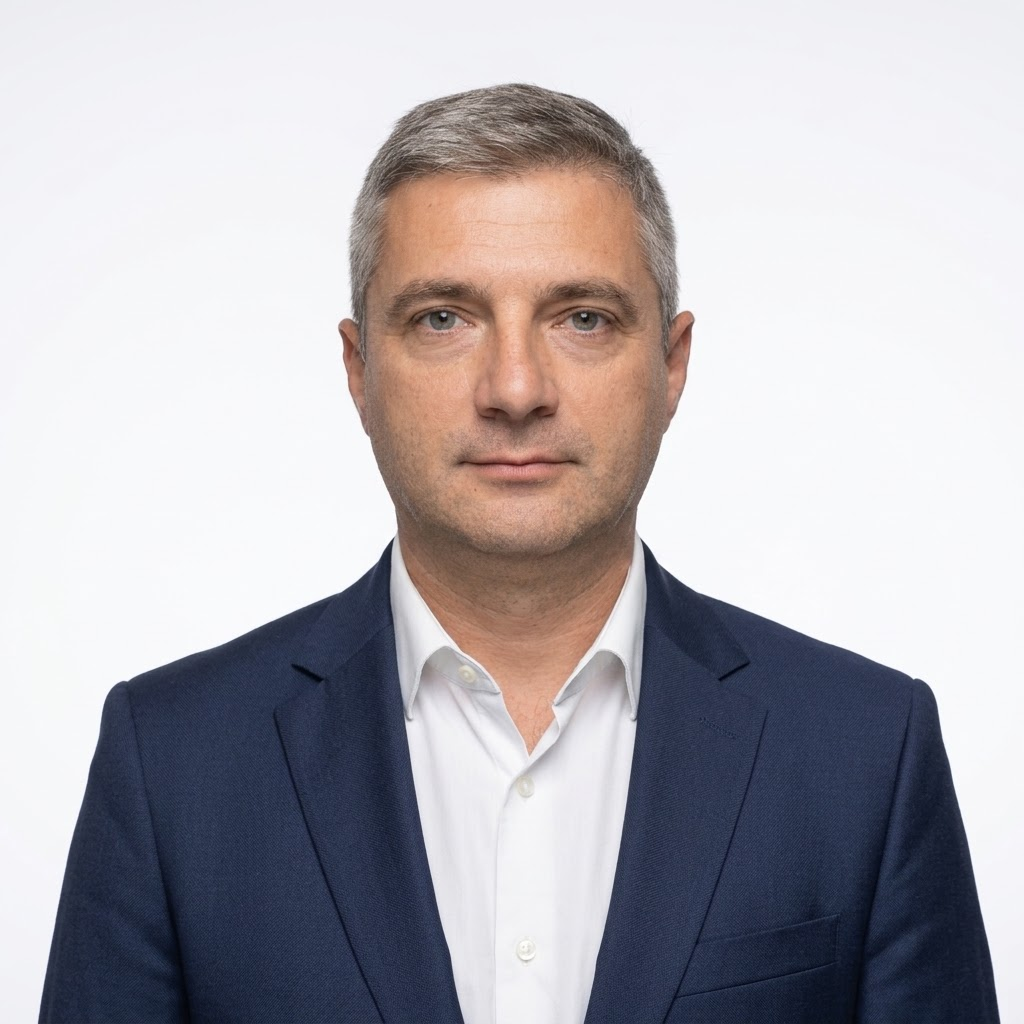
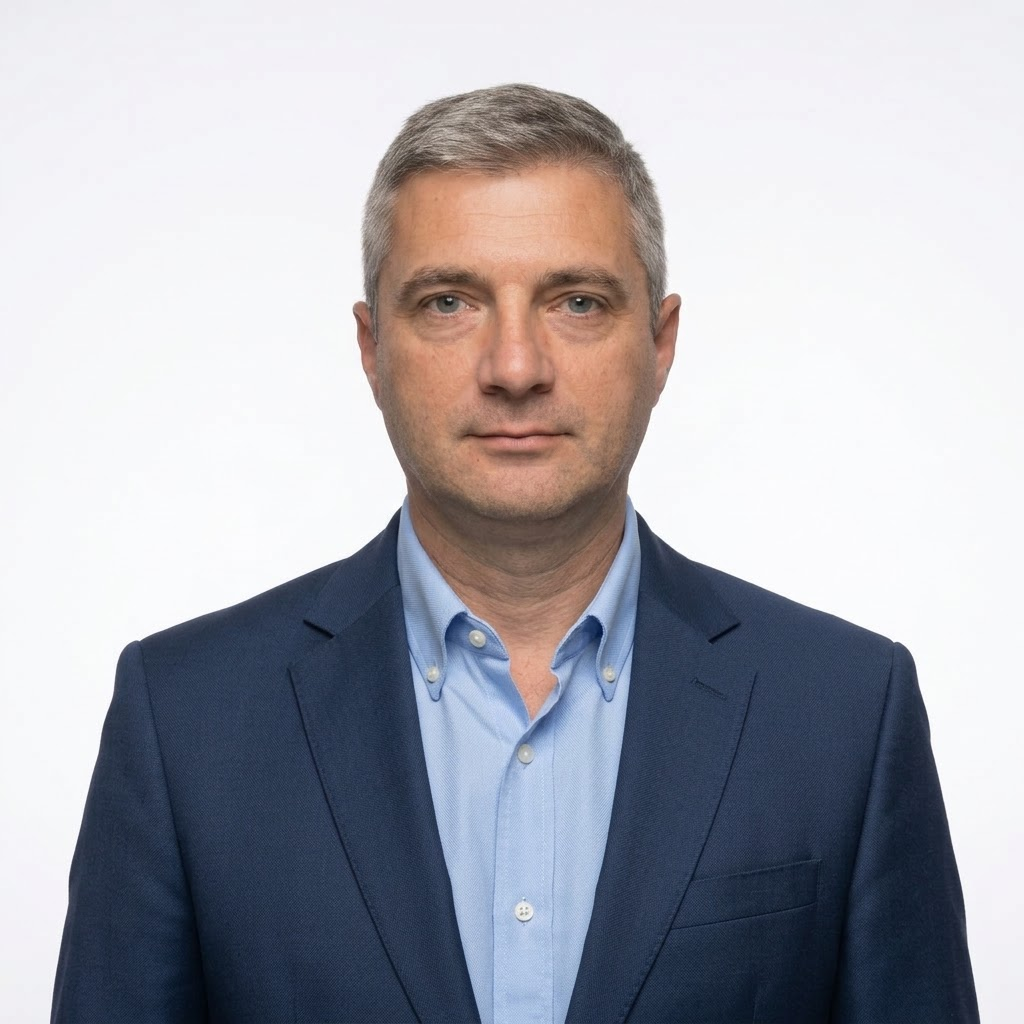
ninic

diff --git a/src/lib/data.ts b/src/lib/data.ts
@@ -316,6 +316,7 @@ export type TeamMember = {
   role: string;
   department: TeamDepartment;
   image?: string;
+  imagePosition?: string;
   phone: string;
   extension?: string;
   email: string;
@@ -383,6 +384,9 @@ export const teamMembers: TeamMember[] = [
     name: "Marina Ninic",
     role: "Safety Manager",
     department: "Safety & Compliance",
+    image:
+      "/images/ninic.png",
+    imagePosition: "object-[center_15%]",
     phone: siteConfig.phone,
     extension: "222",
     email: "marina@yopoexpedite.com",

diff --git a/src/components/TeamCard.tsx b/src/components/TeamCard.tsx
@@ -28,7 +28,7 @@ export function TeamCard({ member }: { member: TeamMember }) {
             alt={`Portrait of ${member.name}`}
             fill
             sizes="160px"
-            className="object-cover transition-transform duration-700 ease-out group-hover:scale-105"
+            className={`object-cover transition-transform duration-700 ease-out group-hover:scale-105 ${member.imagePosition ?? "object-center"}`}
           />
         ) : (
           <div
